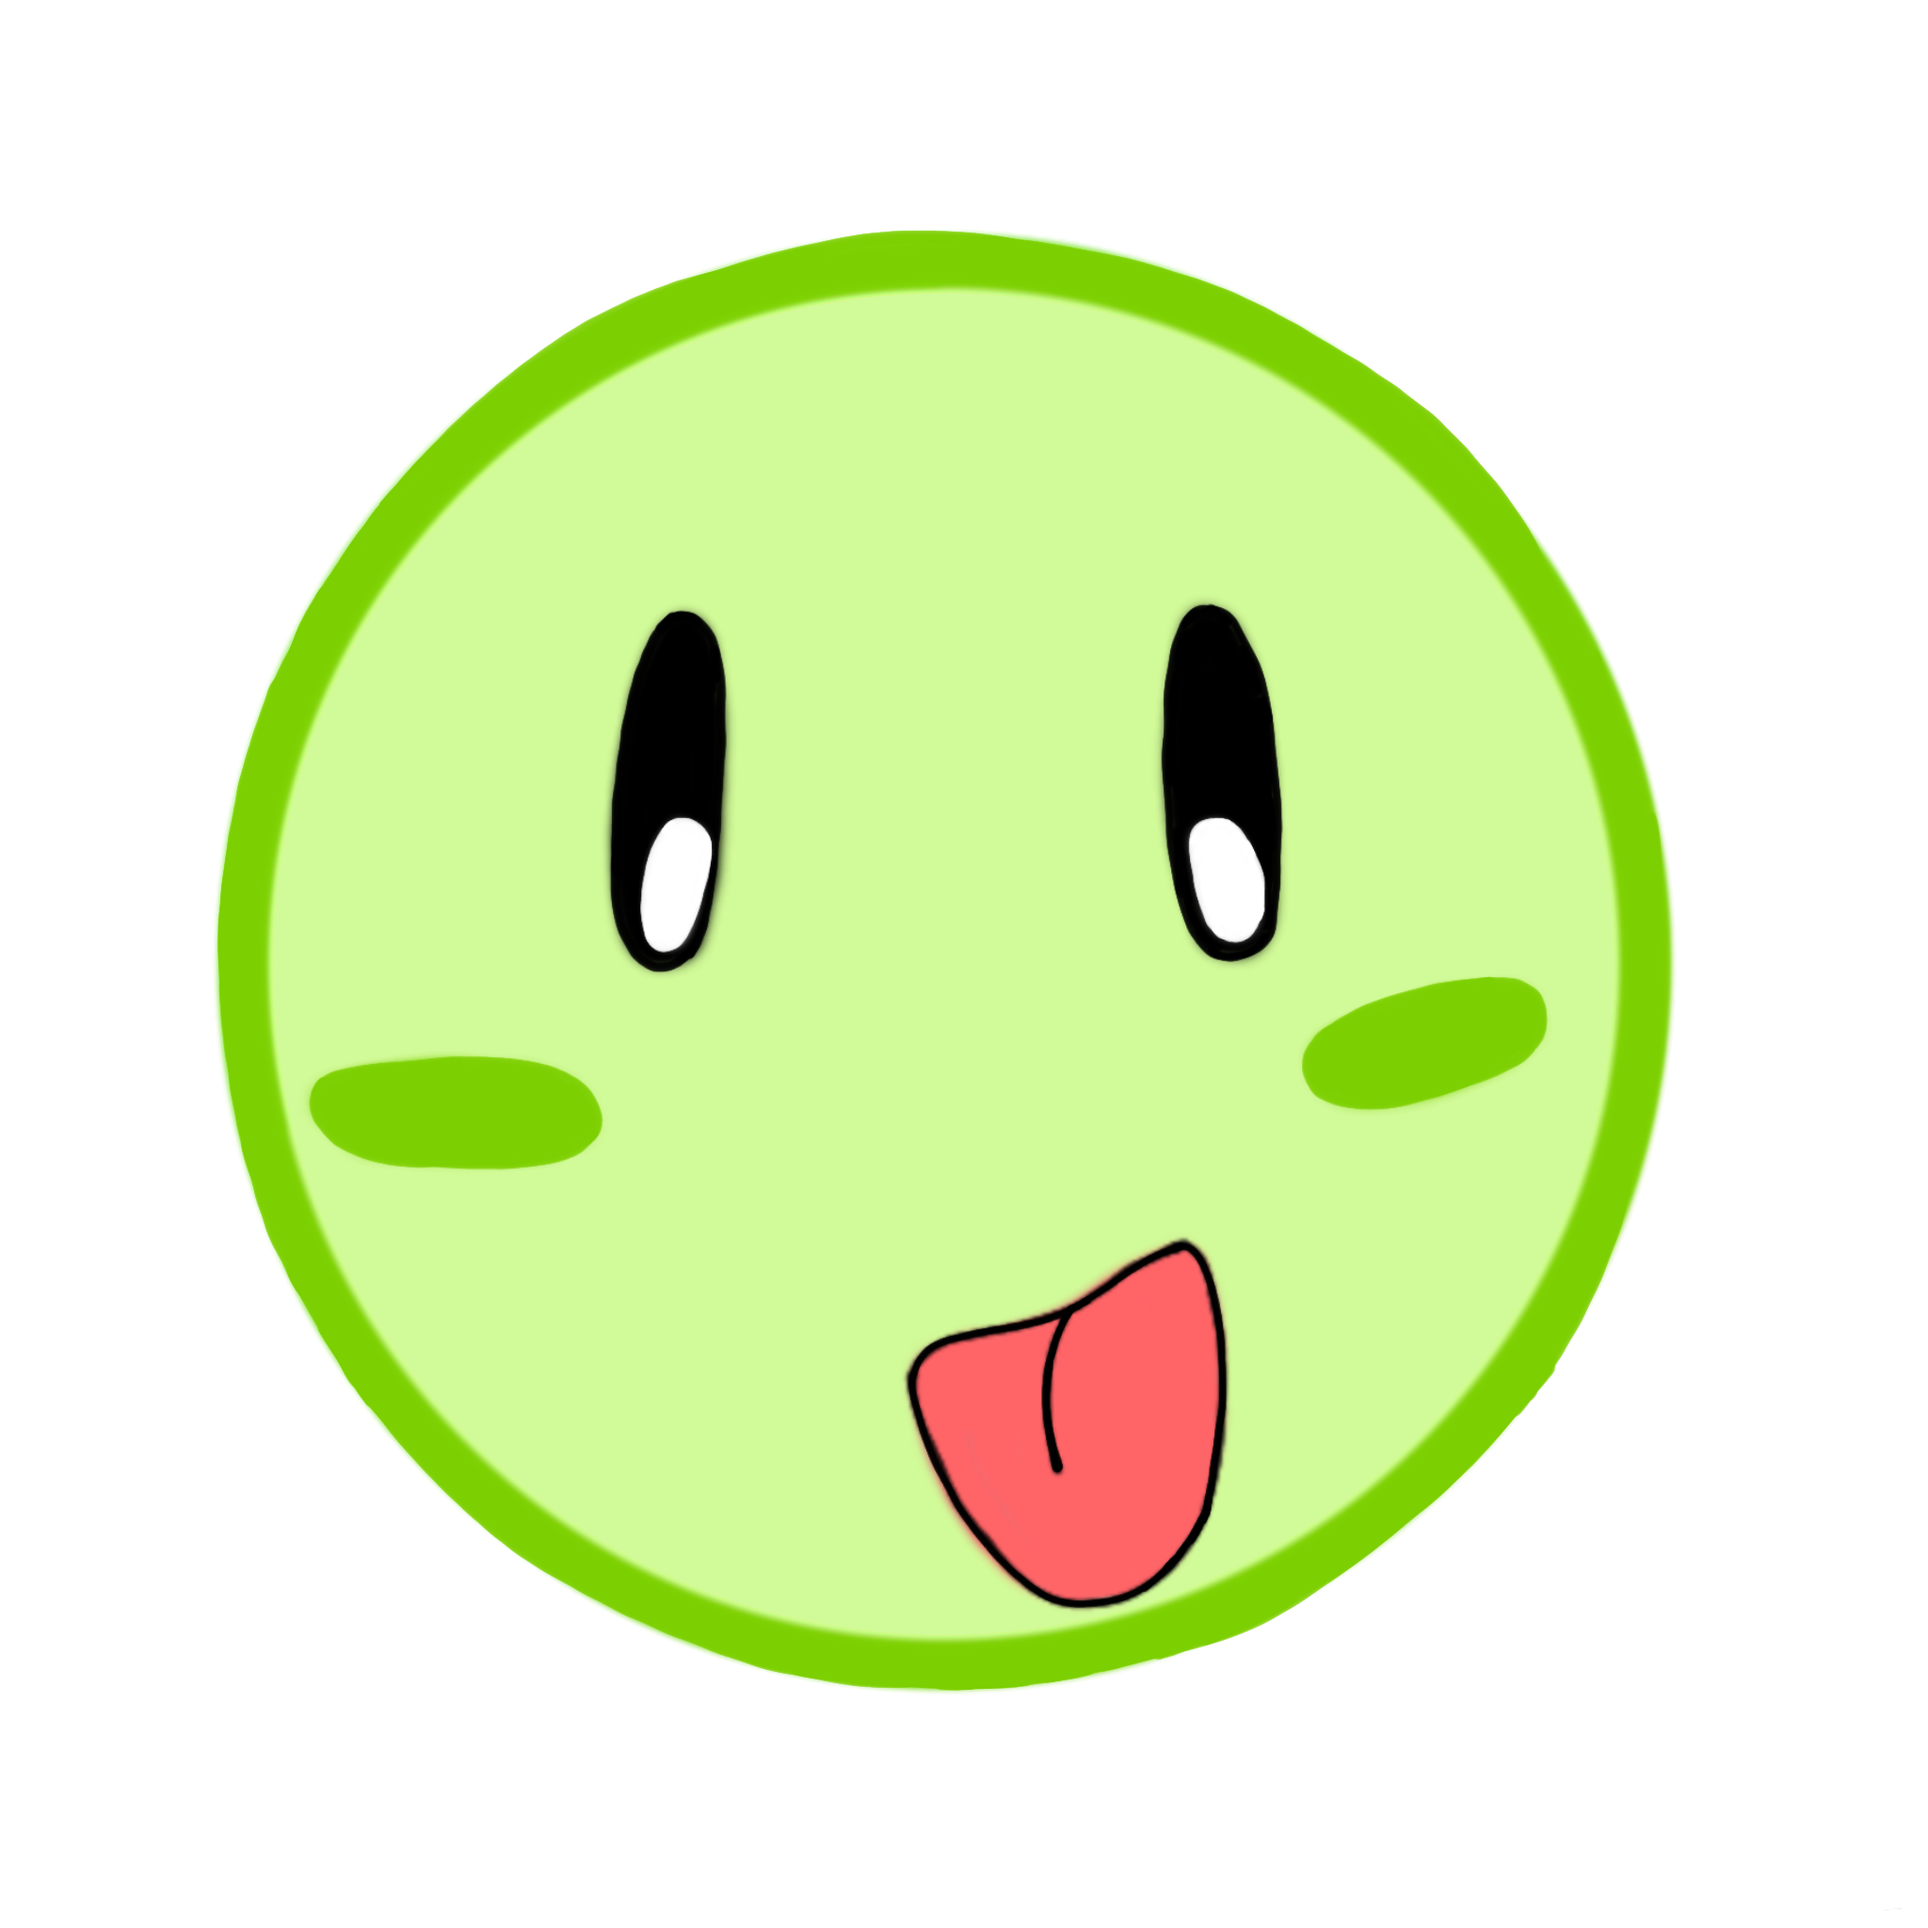
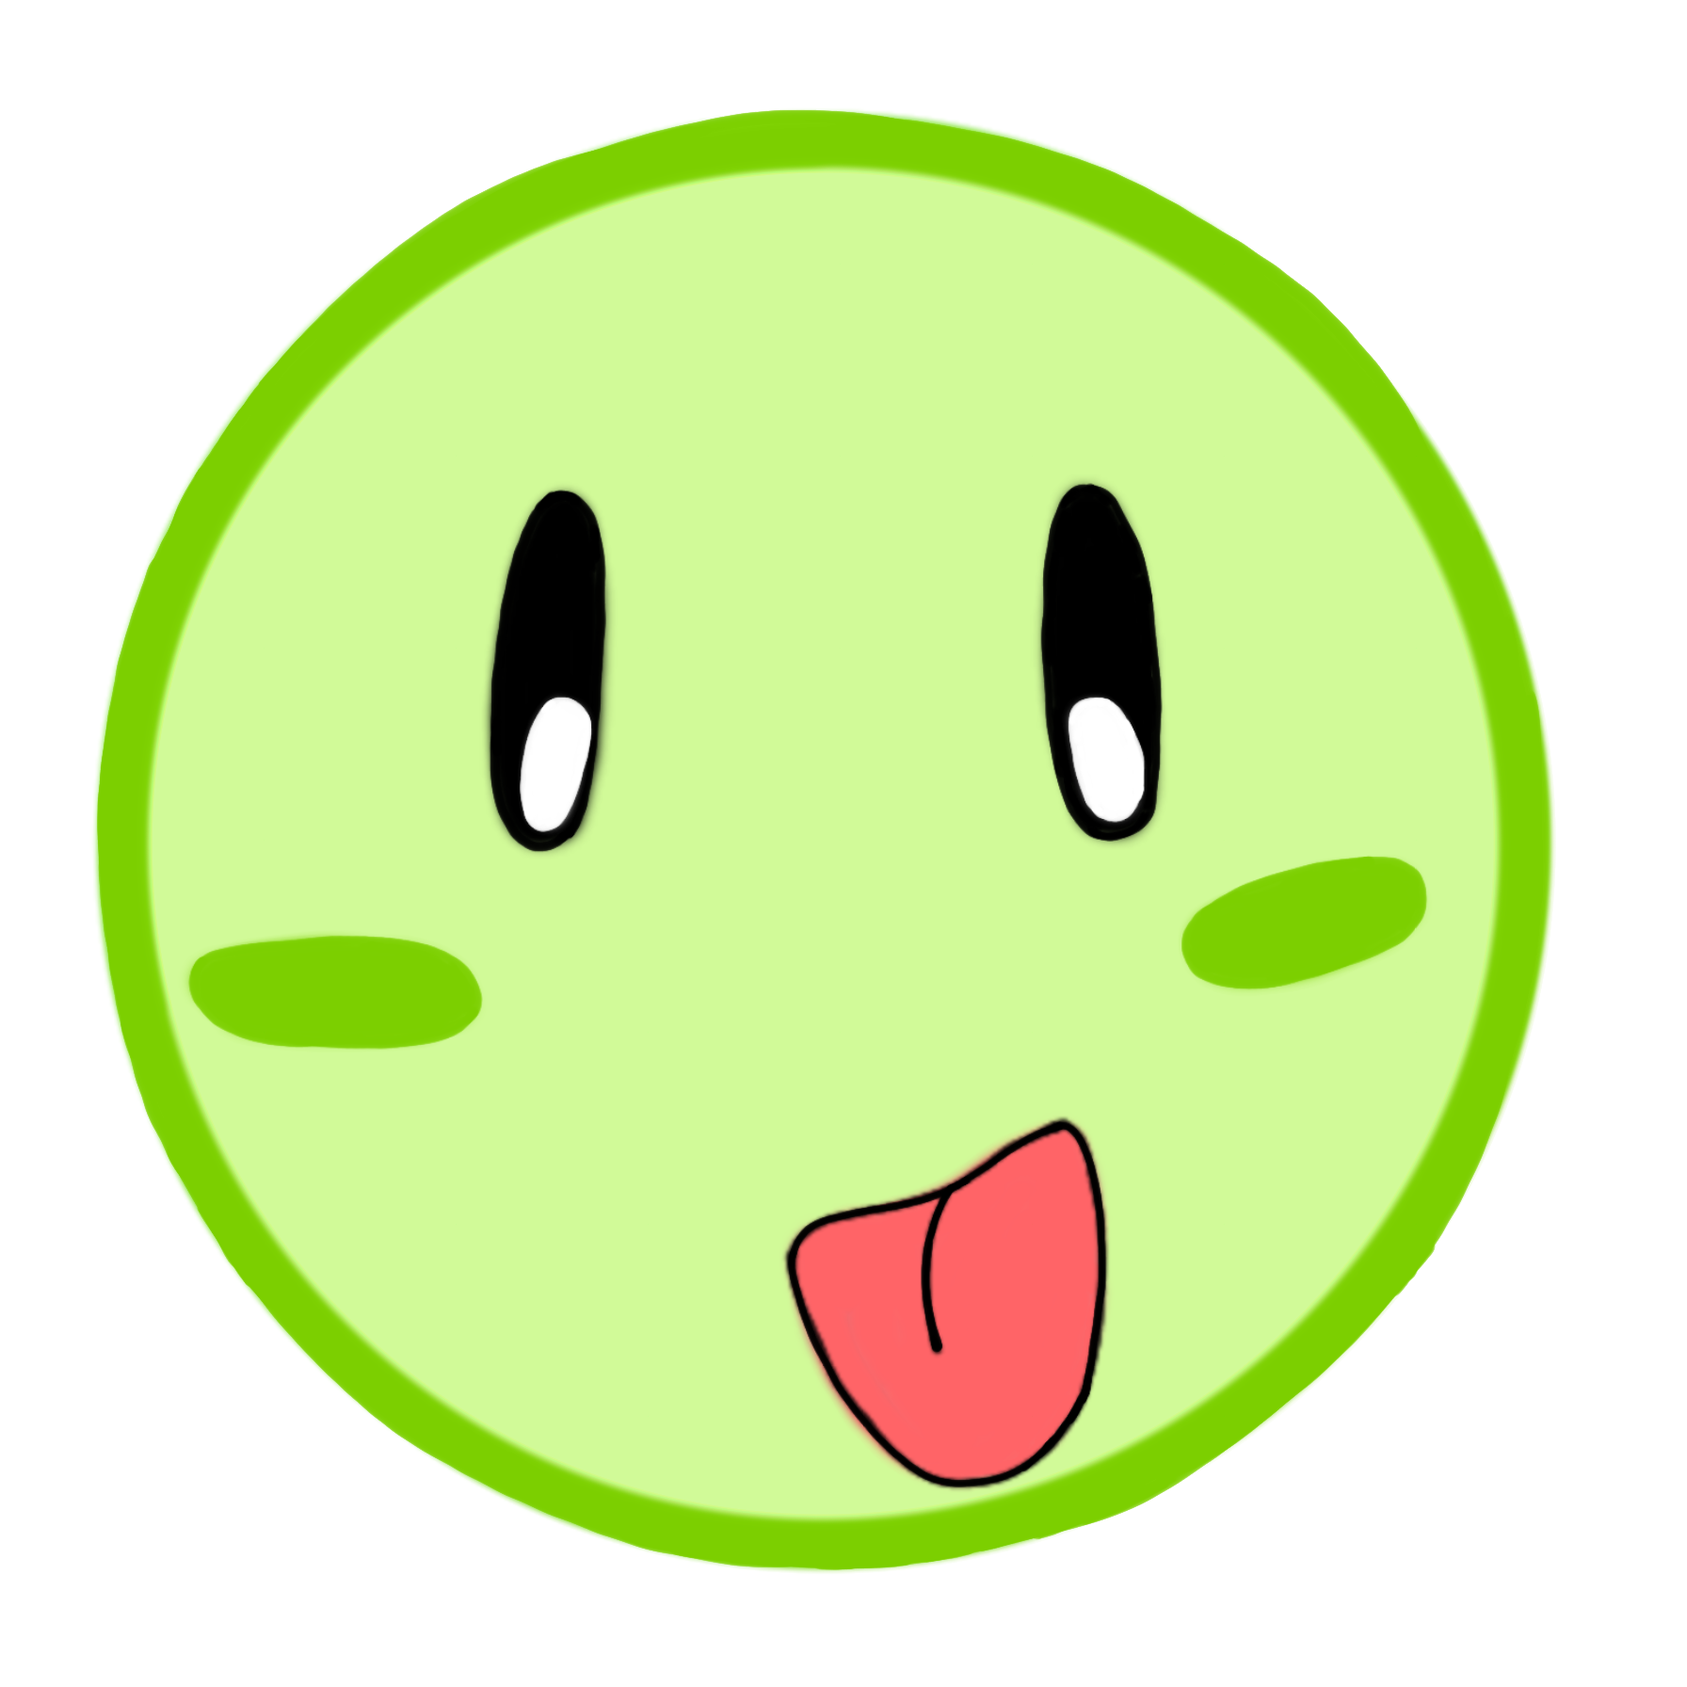
chore(release): v0.3.0

Changed region(s): [[0.0312, 0.0625, 0.9375, 0.9375], [0.2812, 0.2812, 0.4062, 0.5312], [0.5938, 0.2812, 0.6875, 0.5]]

diff --git a/README.md b/README.md
@@ -31,12 +31,13 @@ Personally, I'm building this tool to act as an active visual debugger, since it
 - **Visual Overlays**: Highlight elements and parent relationships
 - **Feature Voting**: Vote for your features to be developed
 - **Design Mode**: Edit text on screen
+- **Rainbow Layouts**: Nested rainbow themed overlay for layers
+- **Auto-Hide/Move**: Smart UI positioning to avoid interference
 
 ## Roadmap
 
 ### 🚀 Planned Features
 
-- **Auto-Hide/Move**: Smart UI positioning to avoid interference
 - **Neighbour Analysis**: Automatic sibling/parent distance detection
 - **Viewport Tools**: Responsive design testing utilities
 - **Parent/Sibling Traversal**: Navigate element hierarchy

diff --git a/CHANGELOG.md b/CHANGELOG.md
@@ -1,5 +1,15 @@
 # amgiflol
 
+## 0.3.0
+
+### Minor Changes
+
+- ba3a60a: feat: adds new icon
+
+### Patch Changes
+
+- ab3fe56: feat: add rainbow layouts
+
 ## 0.2.8
 
 ### Patch Changes
